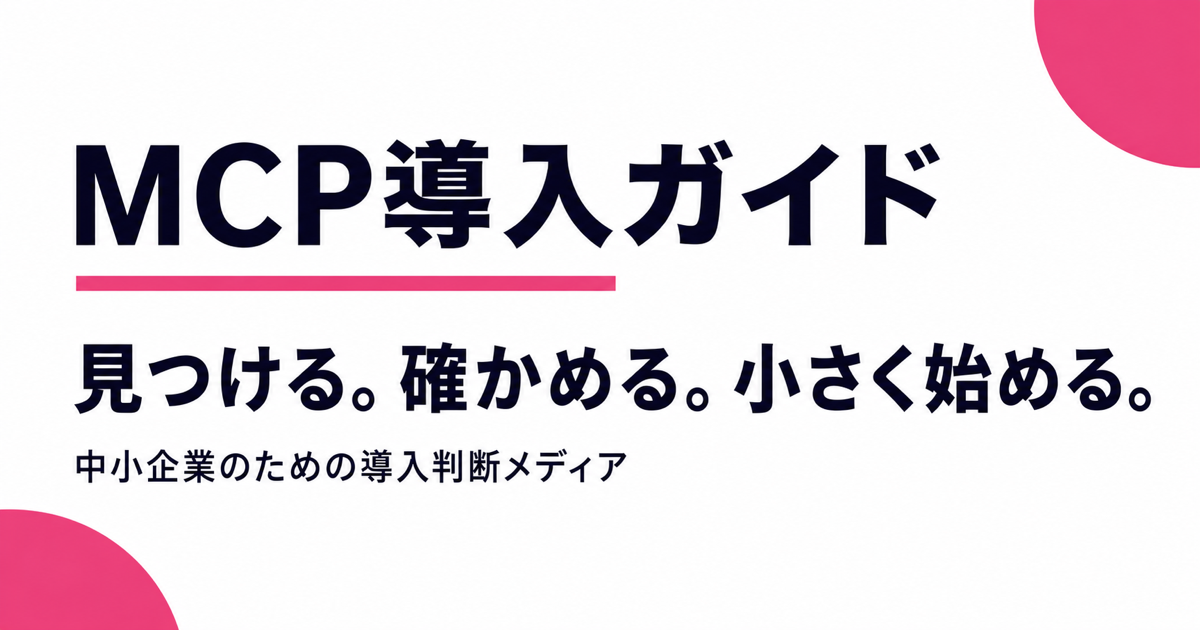
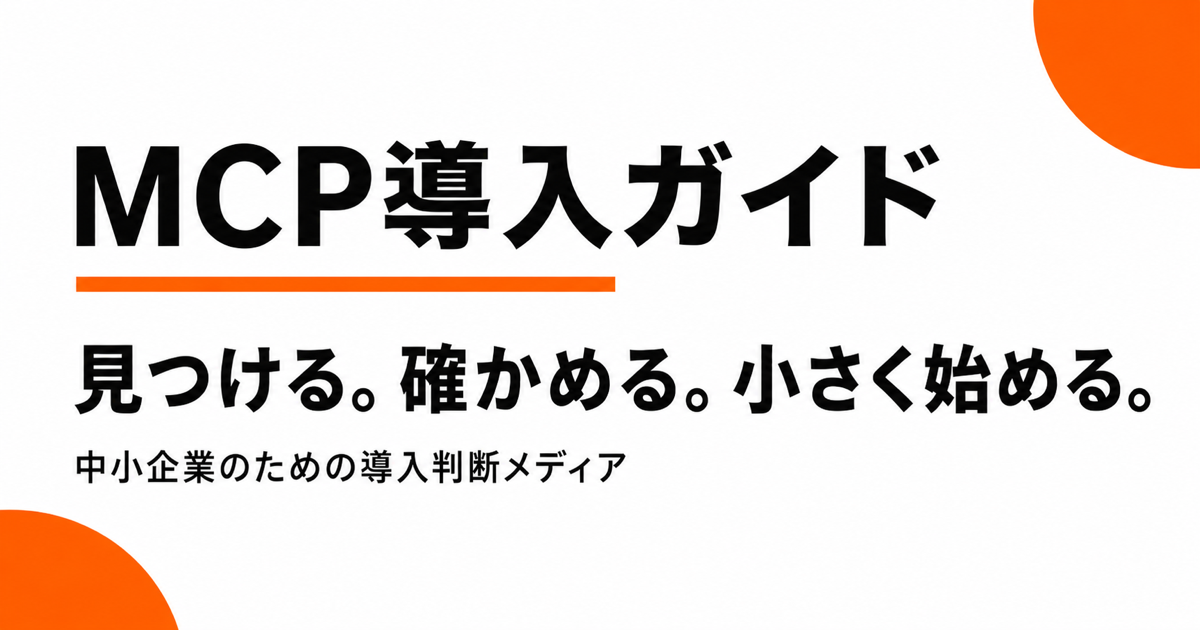
Polish MCP guide with monochrome editorial design

diff --git a/app/globals.css b/app/globals.css
@@ -1,17 +1,17 @@
 @import 'tailwindcss';
 
 :root {
-  --pink:#ea4c89;
-  --pink-soft:#faedf3;
-  --ink:#0d0c22;
-  --plum:#060318;
-  --charcoal:#3d3d4e;
-  --smoke:#6e6d7a;
-  --fog:#9e9ea7;
-  --mist:#f3f3f6;
-  --line:#e2e8f2;
+  --pink:#f97316;
+  --pink-soft:#fff4eb;
+  --ink:#111111;
+  --plum:#090909;
+  --charcoal:#3f3f3f;
+  --smoke:#686868;
+  --fog:#969696;
+  --mist:#f2f2f0;
+  --line:#dededb;
   --paper:#fff;
-  --warning:#a24d28;
+  --warning:#9a3f00;
 }
 
 * { box-sizing:border-box; }
@@ -27,7 +27,7 @@ body {
 a { color:inherit; text-decoration:none; }
 button { font:inherit; }
 h1,h2,h3,b,strong { font-family:var(--font-geist-sans),"Hiragino Kaku Gothic ProN","Yu Gothic",Meiryo,sans-serif; }
-.shell { width:min(100% - 48px,1280px); margin-inline:auto; }
+.shell { width:min(100% - 48px,1350px); margin-inline:auto; }
 
 .site-header { position:sticky; top:0; z-index:30; color:#fff; background:var(--plum); }
 .nav-inner { min-height:64px; display:flex; align-items:center; justify-content:space-between; gap:28px; }
@@ -95,8 +95,9 @@ h1,h2,h3,b,strong { font-family:var(--font-geist-sans),"Hiragino Kaku Gothic Pro
 .filter { flex:0 0 auto; min-height:38px; padding:0 12px; border:0; border-radius:8px; color:var(--smoke); background:transparent; font-size:13px; font-weight:600; cursor:pointer; }
 .filter:hover { color:var(--ink); background:var(--mist); }
 .filter.active { color:#fff; background:var(--ink); }
-.result-line { margin:0 0 14px; color:var(--fog); font:700 10px var(--font-geist-mono); letter-spacing:.08em; text-transform:uppercase; }
+.result-line { display:flex; align-items:center; gap:6px; margin:0 0 14px; color:var(--fog); font:700 10px var(--font-geist-mono); letter-spacing:.08em; text-transform:uppercase; }
 .result-line span { color:var(--pink); }
+.result-line small { margin-left:auto; color:var(--smoke); font:600 10px var(--font-geist-sans); letter-spacing:0; text-transform:none; }
 .guide-grid { display:grid; grid-template-columns:repeat(4,minmax(0,1fr)); gap:34px 20px; }
 .guide-card { min-width:0; display:flex; flex-direction:column; }
 .card-poster { position:relative; overflow:hidden; aspect-ratio:1/.88; padding:14px; border-radius:8px; background:var(--mist); transition:transform .18s ease,outline-color .18s ease; outline:1px solid transparent; }
@@ -112,13 +113,12 @@ h1,h2,h3,b,strong { font-family:var(--font-geist-sans),"Hiragino Kaku Gothic Pro
 .guide-card:nth-child(4n+2) .poster-mark { color:rgba(255,255,255,.08); }
 .poster-caption { position:absolute; z-index:2; left:14px; right:14px; bottom:14px; display:grid; gap:5px; }
 .poster-caption span { color:var(--pink); font-size:10px; font-weight:800; }
-.poster-caption b { font-size:clamp(17px,1.45vw,21px); line-height:1.08; letter-spacing:-.045em; }
+.poster-caption h3 { margin:0; font-size:clamp(17px,1.45vw,21px); line-height:1.08; letter-spacing:-.045em; }
 .card-meta { display:flex; flex:1; flex-direction:column; padding-top:12px; }
-.card-status { display:flex; align-items:center; justify-content:space-between; gap:8px; color:var(--smoke); font-size:10px; }
+.card-status { display:flex; align-items:center; justify-content:flex-end; gap:8px; color:var(--smoke); font-size:10px; }
 .card-status>span:first-child { font-weight:700; }
 .prototype-state { flex:0 0 auto; color:var(--smoke); font-size:10px; }
 .prototype-state i { display:inline-block; width:6px; height:6px; margin-right:5px; border-radius:50%; background:var(--pink); }
-.guide-card h3 { margin:10px 0 0; font-size:19px; line-height:1.2; letter-spacing:-.04em; font-weight:800; }
 .card-description { margin:9px 0 13px; color:var(--smoke); font-size:12px; line-height:1.65; }
 .card-tags { display:flex; flex-wrap:wrap; gap:5px; margin-top:auto; }
 .card-tags span { padding:5px 7px; border:1px solid var(--line); border-radius:999px; color:var(--smoke); background:#fff; font-size:9px; font-weight:650; }
@@ -195,7 +195,7 @@ h1,h2,h3,b,strong { font-family:var(--font-geist-sans),"Hiragino Kaku Gothic Pro
 .starter-card dl div:last-child { border-bottom:0; }
 .starter-card dt { color:var(--fog); }
 .starter-card dd { margin:0; font-weight:700; }
-.setup-section { background:linear-gradient(90deg,transparent 0,transparent calc((100vw - min(100% - 48px,1280px))/2),rgba(243,243,246,.55) calc((100vw - min(100% - 48px,1280px))/2)); }
+.setup-section { background:linear-gradient(90deg,transparent 0,transparent calc((100vw - min(100% - 48px,1350px))/2),rgba(243,243,240,.55) calc((100vw - min(100% - 48px,1350px))/2)); }
 .setup-steps { margin:0; padding:0; list-style:none; }
 .setup-steps li { display:grid; grid-template-columns:46px 1fr; gap:18px; padding:20px 0; border-bottom:1px solid var(--line); }
 .setup-steps li>span { display:grid; place-items:center; width:36px; height:36px; border-radius:8px; color:#fff; background:var(--ink); font:800 11px var(--font-geist-mono); }
@@ -237,6 +237,183 @@ h1,h2,h3,b,strong { font-family:var(--font-geist-sans),"Hiragino Kaku Gothic Pro
 
 a:focus-visible,button:focus-visible { outline:3px solid var(--pink); outline-offset:3px; }
 
+/* Editorial monochrome system: orange is reserved for small functional cues. */
+.site-header {
+  color:var(--ink);
+  background:rgba(255,255,255,.96);
+  border-bottom:1px solid var(--line);
+  backdrop-filter:blur(18px);
+}
+.nav-inner { min-height:68px; }
+.brand-mark {
+  color:#fff;
+  background:var(--ink);
+  border-bottom:3px solid var(--pink);
+  border-radius:3px;
+}
+.top-nav a { color:var(--smoke); }
+.top-nav a:hover { color:var(--ink); }
+.nav-status { color:var(--ink); border-color:var(--line); background:#fff; }
+
+.hero { border-bottom:0; }
+.hero-inner {
+  min-height:690px;
+  grid-template-columns:1.12fr .88fr;
+  gap:clamp(56px,7vw,110px);
+  padding-block:92px 104px;
+}
+.eyebrow { color:var(--ink); letter-spacing:.17em; }
+.eyebrow>span { height:2px; background:var(--pink); border-radius:0; }
+.hero h1 { max-width:780px; font-size:clamp(58px,6.15vw,88px); line-height:.94; letter-spacing:-.078em; }
+.hero-title-accent {
+  position:relative;
+  width:max-content;
+  color:var(--ink);
+}
+.hero-title-accent:after {
+  content:"";
+  position:absolute;
+  right:-15px;
+  bottom:.08em;
+  width:10px;
+  height:10px;
+  background:var(--pink);
+}
+.hero-lead { margin-top:36px; }
+.hero-body { max-width:620px; }
+.audience-line { color:var(--smoke); }
+.prototype-count span { color:var(--ink); background:#fff; border:1px solid var(--ink); }
+.primary-button { background:var(--ink); border-radius:3px; }
+.primary-button:hover { background:#292929; }
+.primary-button span,.text-button span { color:var(--pink); }
+
+.hero-panel {
+  padding:30px;
+  color:var(--ink);
+  background:var(--mist);
+  border:1px solid var(--line);
+  border-radius:3px;
+}
+.hero-panel:after { right:-12px; bottom:-48px; color:rgba(17,17,17,.035); }
+.panel-head { padding-bottom:20px; border-bottom:1px solid #cfcfcb; }
+.panel-kicker { color:var(--ink); }
+.panel-head>span { color:var(--smoke); }
+.panel-row { grid-template-columns:48px 1fr; padding:24px 0; border-bottom:1px solid #d4d4d0; }
+.panel-row>span,
+.panel-row:nth-of-type(3)>span {
+  width:38px;
+  height:38px;
+  color:#fff;
+  background:var(--ink);
+  border-radius:2px;
+}
+.panel-row:nth-of-type(3)>span { border-bottom:3px solid var(--pink); }
+.panel-row b { font:800 11px var(--font-geist-mono); letter-spacing:.12em; }
+.panel-row small { color:var(--smoke); font-size:13px; }
+
+.definition-strip { color:#fff; background:var(--ink); border:0; }
+.definition-inner { min-height:78px; }
+.definition-inner>span {
+  padding:0 0 0 12px;
+  color:#fff;
+  background:transparent;
+  border-left:3px solid var(--pink);
+  border-radius:0;
+  font:800 10px var(--font-geist-mono);
+  letter-spacing:.1em;
+}
+.definition-inner p { color:rgba(255,255,255,.62); }
+.definition-inner a { color:#fff; }
+
+.catalog { padding-block:110px 126px; }
+.section-heading { padding-bottom:28px; border-bottom:1px solid var(--ink); }
+.section-heading h2 { font-size:clamp(46px,4.8vw,66px); }
+.filter-stack { padding:16px 0; border-block:0 1px solid var(--line); }
+.filter { border-radius:2px; }
+.filter.active { background:var(--ink); }
+.result-line { margin-top:24px; }
+.result-line span { color:var(--ink); }
+
+.guide-grid { gap:42px 22px; }
+.card-poster {
+  aspect-ratio:1/.92;
+  padding:16px;
+  border-radius:2px;
+  outline:0;
+  border:1px solid transparent;
+}
+.guide-card:hover .card-poster { transform:translateY(-3px); outline:0; border-color:var(--ink); }
+.guide-card:nth-child(4n+1) .card-poster { color:var(--ink); background:#ececea; }
+.guide-card:nth-child(4n+2) .card-poster { color:#fff; background:var(--ink); }
+.guide-card:nth-child(4n+3) .card-poster { color:var(--ink); background:#fff; border-color:var(--line); }
+.guide-card:nth-child(4n+4) .card-poster { color:var(--ink); background:#d6d6d2; border-color:transparent; }
+.poster-toolbar { color:var(--smoke); }
+.guide-card:nth-child(4n+2) .poster-toolbar { color:rgba(255,255,255,.6); }
+.poster-toolbar span:last-child {
+  position:relative;
+  padding:0 0 0 9px;
+  color:inherit;
+  background:transparent;
+  border-radius:0;
+}
+.poster-toolbar span:last-child:before {
+  content:"";
+  position:absolute;
+  left:0;
+  top:50%;
+  width:4px;
+  height:4px;
+  margin-top:-2px;
+  background:var(--pink);
+}
+.poster-mark { right:12px; bottom:22px; color:rgba(17,17,17,.055); }
+.guide-card:nth-child(4n+2) .poster-mark { color:rgba(255,255,255,.075); }
+.poster-caption span { color:var(--smoke); }
+.guide-card:nth-child(4n+2) .poster-caption span { color:rgba(255,255,255,.58); }
+.prototype-state i { background:var(--pink); border-radius:0; }
+.card-tags span { background:#fafafa; }
+.card-link b { color:var(--pink); }
+
+.decision-section { padding:112px 0; background:#f4f4f1; }
+.decision-list article { border-color:#d2d2ce; }
+.trust-strip { background:var(--ink); }
+.trust-inner span { color:var(--pink); }
+.site-footer { color:var(--smoke); background:#fff; border-top:1px solid var(--line); }
+.footer-brand { color:var(--ink); }
+.footer-inner>div>p { color:var(--fog); }
+.footer-note b { color:var(--ink); }
+.footer-inner nav a:hover { color:var(--ink); text-decoration:underline; text-decoration-color:var(--pink); text-underline-offset:4px; }
+
+.detail-mark { border-bottom-color:var(--pink); border-radius:2px; }
+.card-category,.mini-label,.section-label span { color:var(--pink); }
+.verification-banner { border-color:var(--line); background:#f7f7f4; border-radius:2px; }
+.warning-dot { border-radius:1px; background:var(--pink); }
+.verification-banner b { color:var(--ink); }
+.verification-banner p { color:var(--smoke); }
+.detail-jump a { border-radius:2px; }
+.fit-card,.content-grid>article,.client-grid>article { border-radius:2px; }
+.fit-card.pause { background:#f6f6f3; }
+.flow-card { background:var(--ink); border-radius:2px; }
+.approval-card {
+  color:var(--ink);
+  background:#fff;
+  border:1px solid var(--line);
+  border-radius:2px;
+}
+.approval-card .mini-label { color:var(--pink); }
+.approval-card>div p {
+  color:var(--charcoal);
+  background:var(--mist);
+  border-color:transparent;
+  border-radius:2px;
+}
+.starter-card { border-radius:2px; background:#dededb; }
+.setup-steps li>span { border-radius:2px; }
+.unknown-chip { color:var(--warning); background:var(--pink-soft); }
+.next-action { border-radius:3px; }
+.policy-status p { border-radius:2px; }
+.policy-status span.pending { color:var(--warning); }
+
 @media (max-width:1080px) {
   .hero-inner { grid-template-columns:1fr 1fr; gap:40px; }
   .hero h1 { font-size:clamp(50px,5.4vw,64px); }
@@ -257,7 +434,7 @@ a:focus-visible,button:focus-visible { outline:3px solid var(--pink); outline-of
   .policy-status { grid-template-columns:1fr 1fr; }
 }
 @media (max-width:620px) {
-  .shell { width:min(100% - 32px,1280px); }
+  .shell { width:min(100% - 32px,1350px); }
   .nav-inner { min-height:60px; }
   .top-nav a { display:none; }
   .nav-status { padding:7px 8px; }

diff --git a/app/page.tsx b/app/page.tsx
@@ -9,25 +9,25 @@ export default function Home() {
       <section className="hero">
         <div className="shell hero-inner">
           <div className="hero-copy">
-            <p className="eyebrow"><span /> FOR SMALL BUSINESS LEADERS</p>
+            <p className="eyebrow"><span /> MCP CATALOG / FOR BUSINESS</p>
             <h1><span className="hero-title-row"><span>見つける。</span><span>確かめる。</span></span><span className="hero-title-accent">小さく始める。</span></h1>
-            <p className="hero-lead">そのMCP、自社で使えるかを<br />導入前に確かめる。</p>
+            <p className="hero-lead">経営判断に必要な情報を、<br />接続前の1ページに。</p>
             <p className="hero-body">AIを業務につなぐMCPを、できることだけでなく、必要な権限・人の承認・対応クライアントまで整理して紹介します。</p>
             <div className="audience-line"><p><b>対象</b> 自社でAI活用を進めたい中小企業の社長</p><p><b>対象外</b> 無確認で全面自動化したい方</p></div>
             <p className="prototype-count"><span>PROTOTYPE</span> 掲載候補 8件 / 実機検証済み 0件</p>
             <div className="hero-actions"><a className="primary-button" href="#guides">おすすめMCPを見る <span>↓</span></a><a className="text-button" href="/policy">編集方針を見る <span>↗</span></a></div>
           </div>
           <aside className="hero-panel" aria-label="このガイドで分かること">
-            <div className="panel-head"><p className="panel-kicker">BEFORE YOU CONNECT</p><span>01—03</span></div>
-            <div className="panel-row"><span>01</span><p><b>何ができるか</b><small>業務で使える場面を短く理解</small></p></div>
-            <div className="panel-row"><span>02</span><p><b>何を許可するか</b><small>認証・権限・データの流れを確認</small></p></div>
-            <div className="panel-row"><span>03</span><p><b>どう小さく試すか</b><small>人の承認を残した初回手順</small></p></div>
+            <div className="panel-head"><p className="panel-kicker">DECISION INDEX</p><span>3 SIGNALS</span></div>
+            <div className="panel-row"><span>01</span><p><b>SCOPE</b><small>どの業務とデータを扱うか</small></p></div>
+            <div className="panel-row"><span>02</span><p><b>ACCESS</b><small>読み取り・更新・送信の範囲</small></p></div>
+            <div className="panel-row"><span>03</span><p><b>APPROVAL</b><small>誰が最終判断を残すか</small></p></div>
           </aside>
         </div>
       </section>
 
       <section className="definition-strip">
-        <div className="shell definition-inner"><span>MCPとは</span><p>AIアプリケーションを、業務データやツールにつなぐためのオープンな標準です。</p><a href="https://modelcontextprotocol.io/" target="_blank" rel="noreferrer">公式仕様 ↗</a></div>
+        <div className="shell definition-inner"><span>MODEL CONTEXT PROTOCOL</span><p>AIアプリケーションを、業務データやツールにつなぐためのオープンな標準です。</p><a href="https://modelcontextprotocol.io/" target="_blank" rel="noreferrer">公式仕様 ↗</a></div>
       </section>
 
       <section className="catalog shell" id="guides">

diff --git a/app/catalog-grid.tsx b/app/catalog-grid.tsx
@@ -21,19 +21,19 @@ export default function CatalogGrid() {
           <button className={`filter ${operation === 'action' ? 'active' : ''}`} type="button" onClick={() => setOperation('action')} aria-pressed={operation === 'action'}>実行操作あり</button>
         </div></div>
       </div>
-      <div className="result-line" aria-live="polite"><span>{visibleGuides.length}</span> guides</div>
+      <div className="result-line" aria-live="polite"><span>{visibleGuides.length}</span> guides <small>全候補で人の確認を残す前提</small></div>
       <div className="guide-grid">
         {visibleGuides.map((guide) => (
           <Link href={`/guides/${guide.slug}`} className="guide-card" key={guide.slug}>
             <div className="card-poster">
               <div className="poster-toolbar"><span>0{guides.indexOf(guide) + 1}</span><span>CANDIDATE</span></div>
               <span className="poster-mark">{guide.mark}</span>
-              <div className="poster-caption"><span>{guide.category}</span><b>{guide.name}</b></div>
+              <div className="poster-caption"><span>{guide.category}</span><h3>{guide.name}</h3></div>
             </div>
             <div className="card-meta">
-              <div className="card-status"><span>{guide.category}</span><span className="prototype-state"><i /> 実機未検証</span></div>
-              <h3>{guide.name}</h3><p className="card-description">{guide.description}</p>
-              <div className="card-tags"><span>{guide.access}</span><span>人の確認あり</span></div>
+              <div className="card-status"><span className="prototype-state"><i /> 実機未検証</span></div>
+              <p className="card-description">{guide.description}</p>
+              <div className="card-tags"><span>{guide.access}</span></div>
               <span className="card-link">導入前チェック <b>↗</b></span>
             </div>
           </Link>

diff --git a/app/layout.tsx b/app/layout.tsx
@@ -30,5 +30,5 @@ export const metadata: Metadata = {
 };
 
 export default function RootLayout({ children }: Readonly<{ children: React.ReactNode }>) {
-  return <html lang="ja"><body className={`${geistSans.variable} ${geistMono.variable}`}>{children}</body></html>;
+  return <html lang="ja" data-scroll-behavior="smooth"><body className={`${geistSans.variable} ${geistMono.variable}`}>{children}</body></html>;
 }

diff --git a/next.config.ts b/next.config.ts
@@ -12,6 +12,6 @@ const nextConfig: NextConfig = isGithubPages
       trailingSlash: true,
       images: { unoptimized: true },
     }
-  : {};
+  : { allowedDevOrigins: ['127.0.0.1'] };
 
 export default nextConfig;
